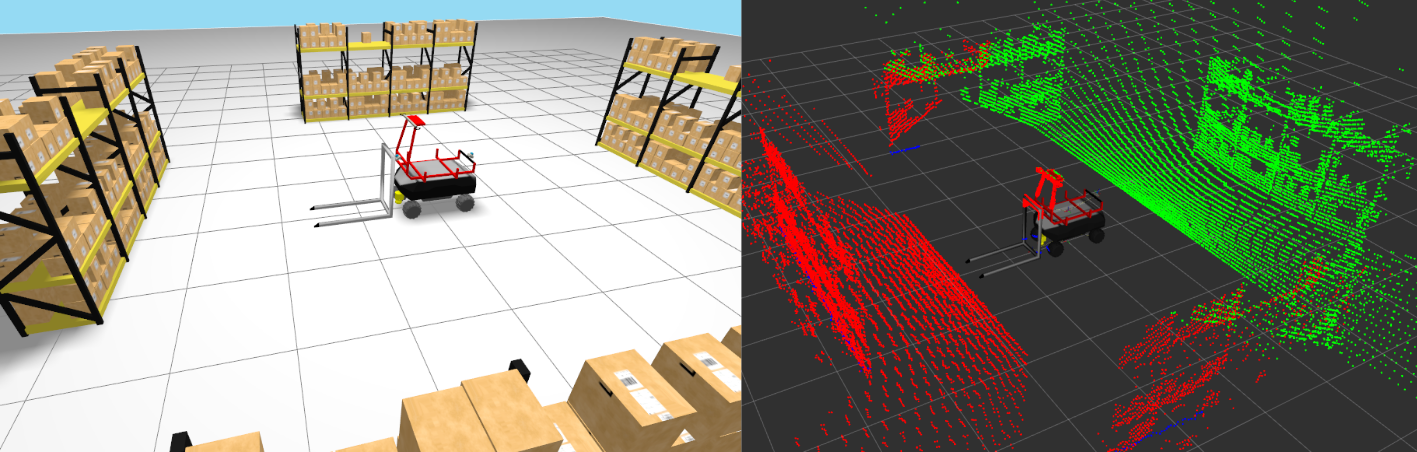
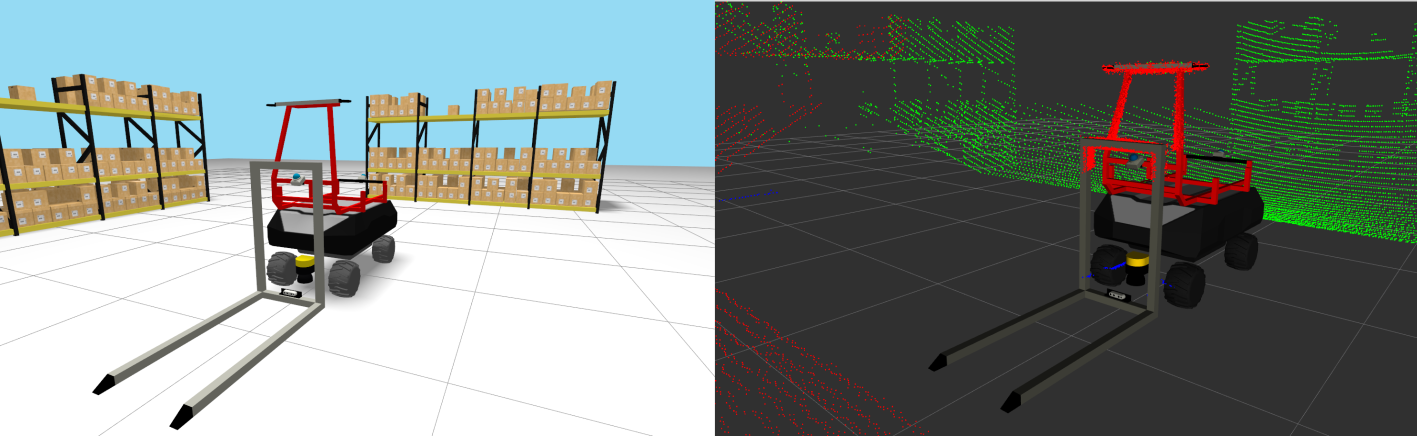
docs: update forklift workflow and illustrations
Document the camera, build and test dependencies, use source paths and order validation sections. Refresh screenshots and resize the model preview.

diff --git a/README.md b/README.md
@@ -2,13 +2,15 @@
 
 `robot_rbvogui_forklift` is an RB-VOGUI robot model with a fork and sensors. Start with the [robot_rbvogui_base README](../robot_rbvogui_base/README.md). It explains the mobile base and shared resources used here. This package adds the fork and sensor layout to that base.
 
-![RB-VOGUI forklift model](doc/images/robot_rbvogui_forklift.png)
+<img src="doc/images/robot_rbvogui_forklift.png" alt="RB-VOGUI forklift model" width="547">
 
 ## Resources
 
 ### Forklift model `urdf/robot_rbvogui_forklift.xacro`
 
-[`robot_rbvogui_forklift.xacro`](urdf/robot_rbvogui_forklift.xacro) is the Xacro entry point for the complete forklift model. It includes `robot_rbvogui_base/urdf/common.xacro` and adds the basket, fork, two Livox Mid-360 3D lidars, and a front-bottom SICK microScan3 MICS3-CBAZ40PZ1 2D lidar.
+[`robot_rbvogui_forklift.xacro`](urdf/robot_rbvogui_forklift.xacro) is the Xacro entry point for the complete forklift model. It includes `robot_rbvogui_base/urdf/common.xacro` and adds the basket, fork, a fork-mounted RealSense D435 camera, two Livox Mid-360 3D lidars, and a front-bottom SICK microScan3 MICS3-CBAZ40PZ1 2D lidar.
+
+The six `fork_rgbd_*` Xacro arguments configure the camera geometry and inertia. The defaults use the OBJ for visual geometry and the STL for collision geometry. Keep `fork_rgbd_color` empty to preserve the OBJ materials. The visual and collision mesh selectors are independent; set either selector to `False` to use a box for that element.
 
 This package provides its own default configuration files. They are examples and guides that you can copy and adapt when creating another forklift variant.
 
@@ -44,12 +46,23 @@ rosdep install --from-paths "${WORKSPACE}" --ignore-src -r -y
 
 ## Build
 
-Build the common package and the forklift package from the workspace root.
+Build the forklift package and its workspace dependencies from the workspace root.
 
 ```bash
 cd "${WORKSPACE}"
-colcon build --merge-install --packages-select robot_rbvogui_base robot_rbvogui_forklift
+colcon build --merge-install --packages-up-to robot_rbvogui_forklift
 source install/setup.bash
+```
+
+## Tests
+
+Build and run the tests for this package and its workspace dependencies from the workspace root.
+
+```bash
+cd "${WORKSPACE}"
+colcon build --merge-install --packages-up-to robot_rbvogui_forklift
+colcon test --merge-install --packages-up-to robot_rbvogui_forklift
+colcon test-result --test-result-base build --verbose
 ```
 
 ## Visualize the forklift model
@@ -59,8 +72,7 @@ The package includes a launch file and supporting resources to visualize the for
 The debug launch file is useful for quickly checking that the model still works after a change and for testing changes to the fork or sensors.
 
 ```bash
-robot_rbvogui_forklift_share="$(ros2 pkg prefix robot_rbvogui_forklift)/share/robot_rbvogui_forklift"
-"${robot_rbvogui_forklift_share}/scripts/debug_robot_rbvogui_forklift.sh"
+"${WORKSPACE}/robot_rbvogui_forklift/scripts/debug_robot_rbvogui_forklift.sh"
 ```
 
 You can pass the script any argument accepted by `debug_robot_rbvogui_forklift.launch.py`. To see the available arguments, run:
@@ -72,8 +84,7 @@ ros2 launch robot_rbvogui_forklift debug_robot_rbvogui_forklift.launch.py --show
 For example, run the simulation without the Gazebo GUI or RViz:
 
 ```bash
-robot_rbvogui_forklift_share="$(ros2 pkg prefix robot_rbvogui_forklift)/share/robot_rbvogui_forklift"
-"${robot_rbvogui_forklift_share}/scripts/debug_robot_rbvogui_forklift.sh" \
+"${WORKSPACE}/robot_rbvogui_forklift/scripts/debug_robot_rbvogui_forklift.sh" \
   rviz_enabled:=False \
   gzgui_enabled:=False
 ```
@@ -82,28 +93,16 @@ robot_rbvogui_forklift_share="$(ros2 pkg prefix robot_rbvogui_forklift)/share/ro
 
 > This image shows the forklift model simulation with the default values.
 
-## Tests
-
-Build and run the common and forklift package tests from the workspace root.
-
-```bash
-cd "${WORKSPACE}"
-colcon build --merge-install --packages-select robot_rbvogui_base robot_rbvogui_forklift
-colcon test --merge-install --packages-select robot_rbvogui_base robot_rbvogui_forklift
-colcon test-result --test-result-base build --verbose
-```
-
-### Inspect the generated URDF
+## Inspect the generated URDF
 
 You can also render the forklift model and validate the resulting URDF directly with `check_urdf`.
 
 ```bash
-robot_rbvogui_forklift_share="$(ros2 pkg prefix robot_rbvogui_forklift)/share/robot_rbvogui_forklift"
 ros2 launch robot_rbvogui_base render_robot_urdf.launch.py \
   robot_name:=rbv0 \
-  robot_xacro_file:="${robot_rbvogui_forklift_share}/urdf/robot_rbvogui_forklift.xacro" \
-  robot_xacro_args_file:="${robot_rbvogui_forklift_share}/config/default_xacro_args.yaml" \
-  robot_sim_file:="${robot_rbvogui_forklift_share}/config/default_simulation.yaml" \
+  robot_xacro_file:="${WORKSPACE}/robot_rbvogui_forklift/urdf/robot_rbvogui_forklift.xacro" \
+  robot_xacro_args_file:="${WORKSPACE}/robot_rbvogui_forklift/config/default_xacro_args.yaml" \
+  robot_sim_file:="${WORKSPACE}/robot_rbvogui_forklift/config/default_simulation.yaml" \
   robot_urdf_file:=/tmp/rbvogui_forklift.urdf
 check_urdf /tmp/rbvogui_forklift.urdf
 ```
